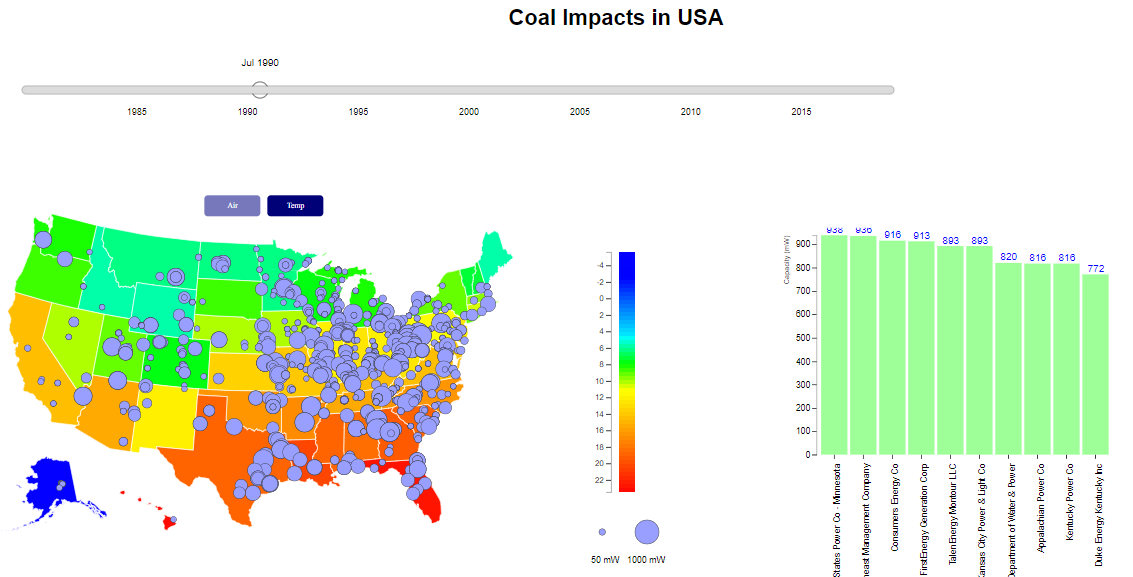
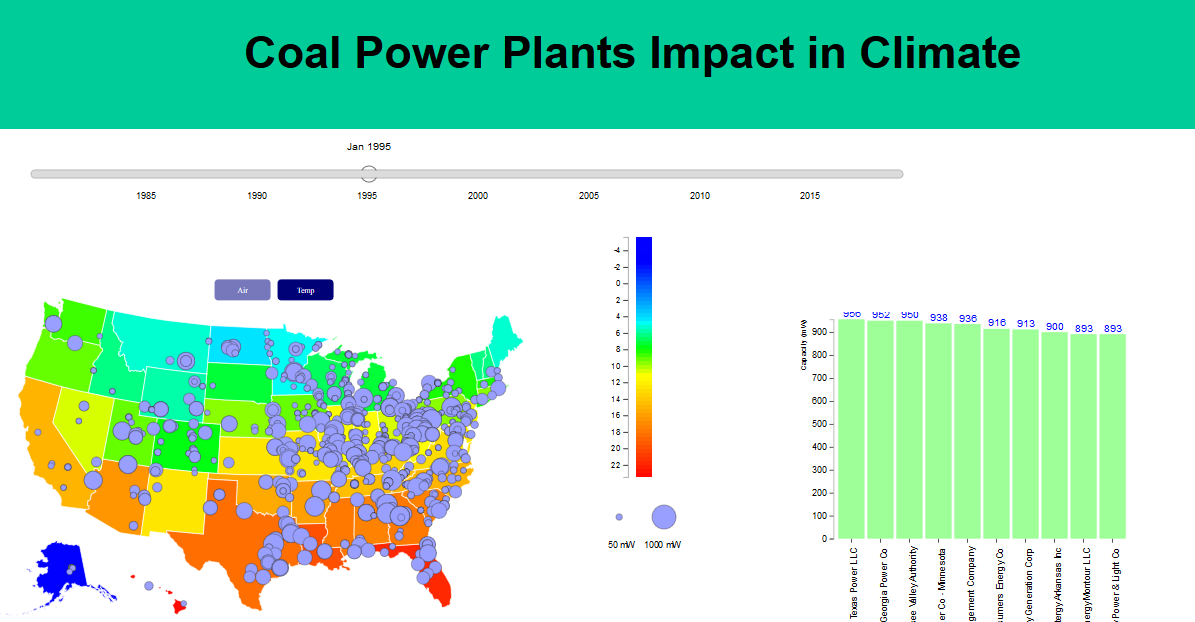
Final v3

diff --git a/index.html b/index.html
@@ -1,6 +1,7 @@
 <!DOCTYPE html>
 <head>
   <meta charset="utf-8">
+  <title>Coal Power Plants Impact in Climate</title>
   <script src="https://d3js.org/d3.v4.min.js"></script>
   <script src="https://d3js.org/topojson.v1.min.js"></script>
 	<script src="https://cdnjs.cloudflare.com/ajax/libs/underscore.js/1.8.3/underscore-min.js"></script>
@@ -12,29 +13,39 @@
 </head>
 
 <body>
-  <h1 style="text-align:center">Coal Impacts in USA</h1>
+  <h1>Coal Power Plants Impact in Climate</h1>
+  <div id="main">
   <div id="slider">
   </div>
-  <div id="main">
     <div id="map"></div>
 		<div id="hist"></div>    
   </div>
+  <div id="outertext">
   <div id="descrip">
-    <p style="font-size:15px"> 
+    <p style="font-size:15px" class="texte"> 
       Le but de ce projet a été de réaliser une visualisation pour être capable de vérifier s'il y a un impact de l'utilisation de centrales à charbon dans le climat. L'étude a été centré sur les États-Unis, car il s'agit d'un des plus grands utilisateurs de ce type de génération d'énergie.
-
-      La carte affiche la température et la qualité de l'air moyennes à chaque année et toutes les centrales à charbon dans la période de 1980 à 2015. Les légendes montrent la correspondance des couleurs et de la taille de chaque cercle, lequel varie en fonction de la puissance des centrales.
     </p>
-    <p style="font-size:15px">
+    <p style="font-size:15px" class="texte"> 
+      La carte affiche la température et la qualité de l'air moyennes à chaque année et toutes les centrales à charbon dans la période de 1980 à 2015. Les légendes montrent la correspondance des couleurs et la taille de chaque cercle, lequel varie en fonction de la puissance des centrales.
+    </p>
+    <p style="font-size:15px" class="texte">
       En raison des limitations des données disponibles, l'étude analyse la période de 1980 à 2015. Au début de cet intervalle de temps, les États-Unis possédaient déjà des nombreuses centrales à charbon, ce que nous a rendu un peu difficile de faire une comparaison avec le climat de l'époque où cette source d'énergie n'était pas utilisée.
-
+    </p>
+    <p style="font-size:15px" class="texte">
       La qualité de l'air peut être affectée en grande partie par la combustion des carburants fossiles, lesquels ne sont pas utilisés uniquement dans les centrales étudiées. Le nombre de véhicules à essence et diesel a une grande influence dans la qualité de l'air aussi, cependant ces données ne sont pas incluses dans notre projet.
     </p>
-    <p style="font-size:15px">
+    <p style="font-size:15px" class="texte">
       De plus, les lois sont devenues plus rigoureuses et des mesures pour diminuer l'impact des centrales à charbon sur l'environnement ont été implementées.
-
-      En raison des plusieurs points cités, notre étude s'est montrée incapable d'établir un lien entre les centrales à charbon et le climat du fait que diverses autres facteurs ont un grand impact sur l'environnement, faisant que les données examinées ici soient insuffisantes pour arriver à une conclusion satisfaisante
     </p>
+    <p style="font-size:15px" class="texte">
+      En raison des plusieurs points cités, notre étude s'est montrée incapable d'établir un lien entre les centrales à charbon et le climat du fait que diverses autres facteurs ont un grand impact sur l'environnement, faisant que les données examinées ici soient insuffisantes pour arriver à une conclusion.
+    </p>
+  </div>
+  </div>
+  <div id="membres">
+  	<div id="listem">
+  		<p> Quoc Do, Christopher Gizard, Nadjmeddine Boudjellal, Raphael Ramos Tubino</p>	
+  	</div>
   </div>
   <script>
     var width = 960,
@@ -342,3 +353,4 @@ buttonGroups.append("text")
   
   
 </body>
+

diff --git a/style.css b/style.css
@@ -80,6 +80,9 @@ path {
     /* Legend Font Style */
 body {
 	font: 11px sans-serif;
+	background: rgb(0,204,153);;
+	padding:0px;
+	margin:0px;
 }
         
 /* Legend Position Style */
@@ -126,7 +129,51 @@ body {
   margin-top: 45px;
 }
 #descrip{
-  clear:both;
+	font-family: Arial, Helvetica, sans-serif;
+	width: 960px;
+	margin: auto;
+	text-align: justify;
+	text-justify: inter-word;
+	clear:both;
+	padding: 30px;
+}
+
+#outertext{
+	background: white;
+	width:100%;
+}
+
+#membres{
+	font-family: Arial, Helvetica, sans-serif;
+	width: 960px;
+	margin: auto;
+	text-align: center;
+	font-size: 20px;
+	clear:both;
+	padding: 30px;
+}
+
+.texte{
+	font-size: 20px;
+}
+
+h1{
+	text-align: center;
+    font-family: Arial, Helvetica, sans-serif;
+    font-size: 45px;
+	margin: 50px;
+}
+
+#main{
+	float: left;
+	margin: auto;
+	background: white;
+	width: 100%;
+	height: 700px;
+}
+
+#slider,#map,#hist{
+	background: white;
 }
 
 .state{
